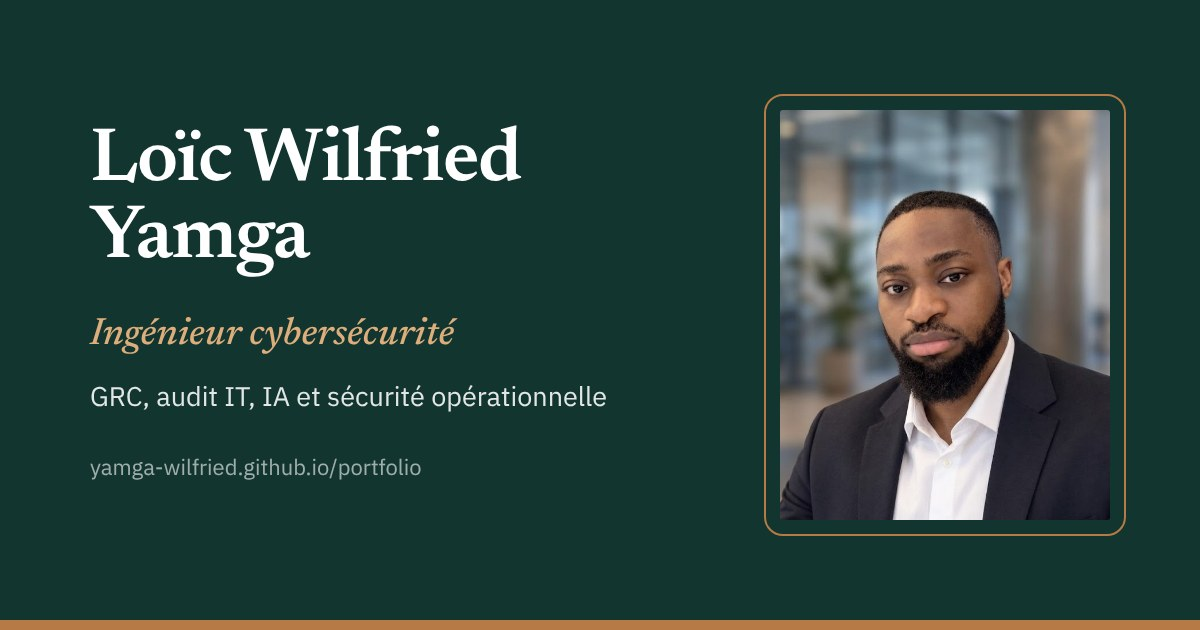
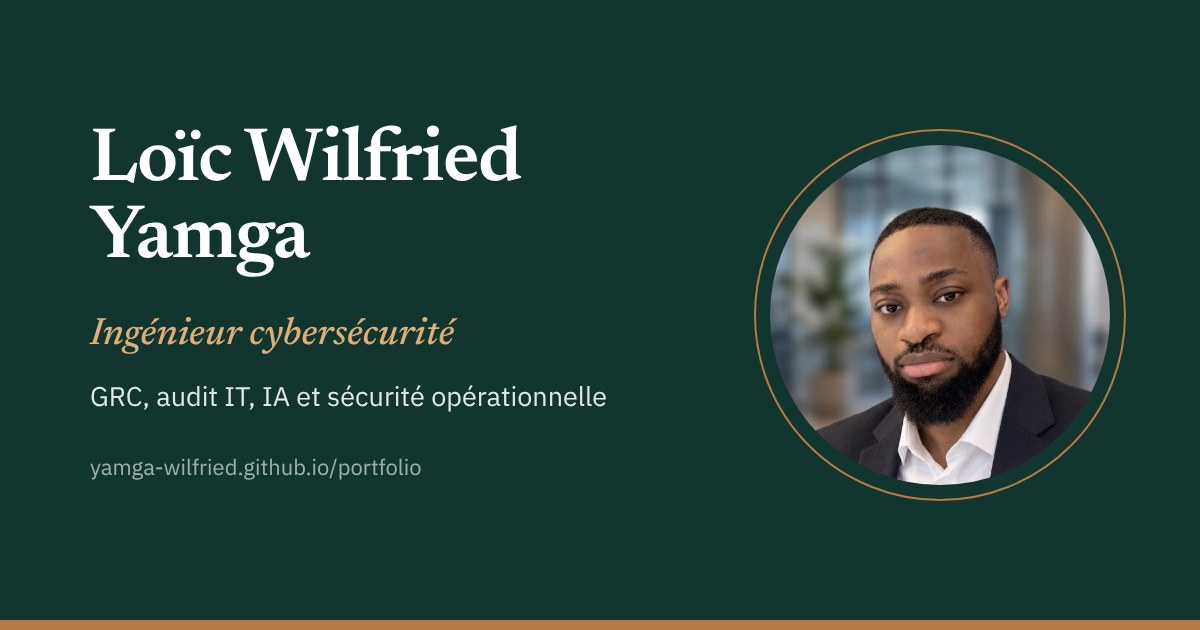
Résultats GRC en premier (dont 10 risques IA), frise allégée, compétences centrées sur l'expertise, stages précédents, carte d'aperçu avec photo ronde
Claude-Session: https://claude.ai/code/session_01MoH5GAoNFgKRrBqba2B4R8

Changed region(s): [[0.6167, 0.1508, 0.9558, 0.8746]]

diff --git a/index.html b/index.html
@@ -44,7 +44,7 @@
         <h1>Loïc Wilfried Yamga</h1>
         <p class="role">Ingénieur cybersécurité</p>
         <p class="fields">GRC, audit IT, IA et sécurité opérationnelle.</p>
-        <p class="lede">Chez OPmobility depuis 2024, je gère des incidents de sécurité sur un périmètre international, j'assure le suivi des vulnérabilités et je prépare les audits avec l'équipe GRC.</p>
+        <p class="lede">Chez OPmobility depuis 2024, je prépare les audits avec l'équipe GRC, j'assure le suivi des vulnérabilités et je gère des incidents de sécurité sur un périmètre international.</p>
         <div class="actions">
           <a class="btn btn-primary" href="#projets">Voir mes projets</a>
           <a class="btn btn-ghost" href="https://www.linkedin.com/in/lo%C3%AFc-yamga" rel="me">LinkedIn</a>
@@ -76,22 +76,22 @@
             <li>
               <time datetime="2022">2022</time>
               <strong>Bachelor Cybersécurité & Ethical Hacking</strong>
-              <p>EFREI Paris, mention Bien. Réseaux, systèmes, tests d'intrusion.</p>
+              <p>EFREI Paris, mention Bien.</p>
             </li>
             <li>
               <time datetime="2024">2024</time>
               <strong>SOC/VOC N3 chez OPmobility</strong>
-              <p>Incidents, threat hunting et vulnérabilités sur un périmètre international.</p>
+              <p>Incidents et vulnérabilités, périmètre international.</p>
             </li>
             <li>
               <time datetime="2025">2025</time>
               <strong>Entrée en GRC</strong>
-              <p>Audits TISAX, SMSI ISO 27001, EBIOS RM, risques IA. MSc Cybersécurité & Management à l'EFREI.</p>
+              <p>Audits TISAX, SMSI, EBIOS RM, risques IA.</p>
             </li>
             <li class="next">
               <time datetime="2027">2027</time>
               <strong>Mon cap</strong>
-              <p>Un poste en GRC : gouvernance, audit IT et risques cyber, y compris ceux liés à l'IA.</p>
+              <p>Gouvernance, audit IT et risques cyber, IA comprise.</p>
             </li>
           </ol>
         </div>
@@ -120,16 +120,18 @@
           <div class="xp-meta">
             <h3>OPmobility</h3>
             <p class="where">Ingénieur cybersécurité, SOC/VOC et GRC (apprentissage). Depuis août 2024.</p>
-            <p>Équipementier automobile international. Je travaille au SOC du groupe, sur la gestion des vulnérabilités et, aux côtés de l'équipe GRC, sur les audits et l'analyse de risques.</p>
+            <p>Équipementier automobile international. J'interviens avec l'équipe GRC sur les audits et l'analyse de risques, au SOC du groupe et sur la gestion des vulnérabilités.</p>
+            <p>Avant OPmobility : stages d'administrateur systèmes et réseaux à la Mairie de Dugny (infrastructure du Village des médias des JO 2024) et de web designer chez Premium Consulting.</p>
           </div>
           <div>
             <ul class="facts">
-              <li><span class="figure">−50 %</span><p>de faux positifs environ, après avoir optimisé les règles de détection avec le MSSP.</p></li>
-              <li><span class="figure">48 à 78 %</span><p>de respect des délais de traitement des incidents, en sept mois, pendant la restructuration du SOC.</p></li>
-              <li><span class="figure">37 sites</span><p>web exposés : j'ai refait leur suivi des vulnérabilités, du référentiel jusqu'au circuit de remédiation.</p></li>
               <li><span class="figure">TISAX</span><p>audits AL2 et AL3 préparés avec l'équipe GRC ; j'ai rédigé la synthèse de l'audit AL3.</p></li>
-              <li><span class="figure">4 pays</span><p>coordonnés pendant une investigation EDR que j'ai pilotée jusqu'à la remédiation, avec les experts de l'éditeur.</p></li>
+              <li><span class="figure">10 risques IA</span><p>formalisés (OWASP Top 10 for LLM 2025) avec leurs plans de traitement, dans l'outil de risk assessment.</p></li>
               <li><span class="figure">~25 membres</span><p>du comité cyber worldwide, devant qui je présente les indicateurs VOC et EPP.</p></li>
+              <li><span class="figure">4 pays</span><p>coordonnés pendant une investigation EDR que j'ai pilotée jusqu'à la remédiation, avec les experts de l'éditeur.</p></li>
+              <li><span class="figure">48 à 78 %</span><p>de respect des délais de traitement des incidents, en sept mois, pendant la restructuration du SOC.</p></li>
+              <li><span class="figure">−50 %</span><p>de faux positifs environ, après avoir optimisé les règles de détection avec le MSSP.</p></li>
+              <li><span class="figure">37 sites</span><p>web exposés : j'ai refait leur suivi des vulnérabilités, du référentiel jusqu'au circuit de remédiation.</p></li>
             </ul>
             <p class="xp-note">Je contribue aussi au passage du SOC vers un modèle augmenté par l'IA (Cortex XSIAM), et j'ai encadré deux stagiaires et animé des ateliers pour trois analystes N2.</p>
             <p class="xp-note">J'ai également géré en autonomie un incident majeur qui avait arrêté une ligne de production en Allemagne. C'est l'expérience qui m'a le plus appris sur la coordination en situation de crise.</p>
@@ -146,33 +148,33 @@
         <div class="skills">
           <div>
             <h3>Gouvernance, risques et conformité</h3>
-            <p>Analyse de risques (EBIOS RM, ISO 27005), préparation et suivi d'audits (TISAX, VDA ISA), SMSI ISO 27001.</p>
-            <p class="ref">ISO 27001, 27002, 27036, ISO 22301, DORA, NIS2, RGPD, PCI DSS.</p>
+            <p>Préparation et réalisation d'audits (TISAX AL2/AL3, VDA ISA), contribution au SMSI ISO 27001, analyses de risques EBIOS RM et ISO 27005.</p>
+            <p class="ref">Référentiels : ISO 27001, 27002, 27005, ISO 22301, DORA, NIS2, RGPD.</p>
           </div>
           <div>
             <h3>Sécurité et gouvernance de l'IA</h3>
-            <p>Identification et traitement des risques liés à l'IA et aux agents, tests d'agents d'investigation dans un SOC augmenté par l'IA.</p>
-            <p class="ref">OWASP Top 10 for LLM et Agentic, MITRE ATLAS.</p>
+            <p>Identification des risques liés à l'IA et aux agents, plans de traitement, tests et supervision d'agents d'investigation dans un SOC augmenté par l'IA.</p>
+            <p class="ref">Cadres : OWASP Top 10 for LLM et Agentic, MITRE ATLAS.</p>
           </div>
           <div>
             <h3>Sécurité opérationnelle (SOC)</h3>
-            <p>Gestion d'incidents et de crise, threat hunting, investigation, incident review, amélioration continue, exercices Purple Team et Red Team.</p>
-            <p class="ref">Cortex XDR, XSIAM et XSOAR, SentinelOne, Microsoft Defender, MITRE ATT&CK.</p>
+            <p>Gestion d'incidents et de crise, threat hunting, investigation, incident review, amélioration continue de la détection, exercices Purple Team et Red Team.</p>
+            <p class="ref">Principalement : Cortex XDR et XSIAM, MITRE ATT&CK.</p>
           </div>
           <div>
             <h3>Gestion des vulnérabilités (VOC)</h3>
-            <p>Vulnérabilités web, infrastructure et cloud : transformation du suivi, remédiation et reporting.</p>
-            <p class="ref">Rapid7, HTTPCS, Aqua Security (CNAPP), SecurityScorecard.</p>
+            <p>Transformation du suivi des vulnérabilités web, infrastructure et cloud ; remédiation, validation après correctif, indicateurs et reporting.</p>
+            <p class="ref">Principalement : Rapid7, HTTPCS, Aqua Security.</p>
           </div>
           <div>
             <h3>Architecture et sécurité réseau</h3>
-            <p>Pare-feux, accès distants, messagerie, comptes à privilèges et postes de travail.</p>
-            <p class="ref">Palo Alto NGFW, Panorama, Strata Cloud Manager, Prisma Access, Zscaler, VMware NSX, Proofpoint, CyberArk PAM, Intune, Nexthink.</p>
+            <p>Base de connaissances de l'architecture réseau et sécurité d'un groupe international, intégration de nouvelles sources de journaux (PAM, anti-spam, NSX).</p>
+            <p class="ref">Environnement : Palo Alto NGFW, Zscaler, Proofpoint.</p>
           </div>
           <div>
-            <h3>Pilotage et langues</h3>
-            <p>Gestion de projet, pilotage par indicateurs, reporting en comité, documentation, encadrement.</p>
-            <p class="ref">Power BI, Microsoft 365, Claude Code. Français, anglais (TOEIC 875/990), allemand (Goethe B2).</p>
+            <h3>Pilotage et transmission</h3>
+            <p>Indicateurs et reporting en comité, procédures et guides opérationnels, encadrement de stagiaires et ateliers pour analystes.</p>
+            <p class="ref">Langues : français, anglais (TOEIC 875/990), allemand (Goethe B2).</p>
           </div>
         </div>
       </div>

diff --git a/assets/css/site.css b/assets/css/site.css
@@ -149,7 +149,7 @@ p { margin: 0 0 1em; }
 .xp-meta .where { color: var(--muted); margin: 0.4rem 0 1.2rem; }
 .xp-meta p { color: var(--muted); font-size: 0.98rem; }
 .facts { list-style: none; margin: 0; padding: 0; }
-.facts li { display: grid; grid-template-columns: 8.5rem minmax(0, 1fr); gap: 1.25rem; padding: 1.1rem 0; border-top: 1px solid var(--line); }
+.facts li { display: grid; grid-template-columns: 9.75rem minmax(0, 1fr); gap: 1.25rem; padding: 1.1rem 0; border-top: 1px solid var(--line); }
 .facts li:last-child { border-bottom: 1px solid var(--line); }
 .facts .figure { font-family: var(--serif); font-weight: 600; font-size: 1.35rem; color: var(--ink); line-height: 1.3; font-variant-numeric: lining-nums tabular-nums; }
 .facts p { margin: 0; }
